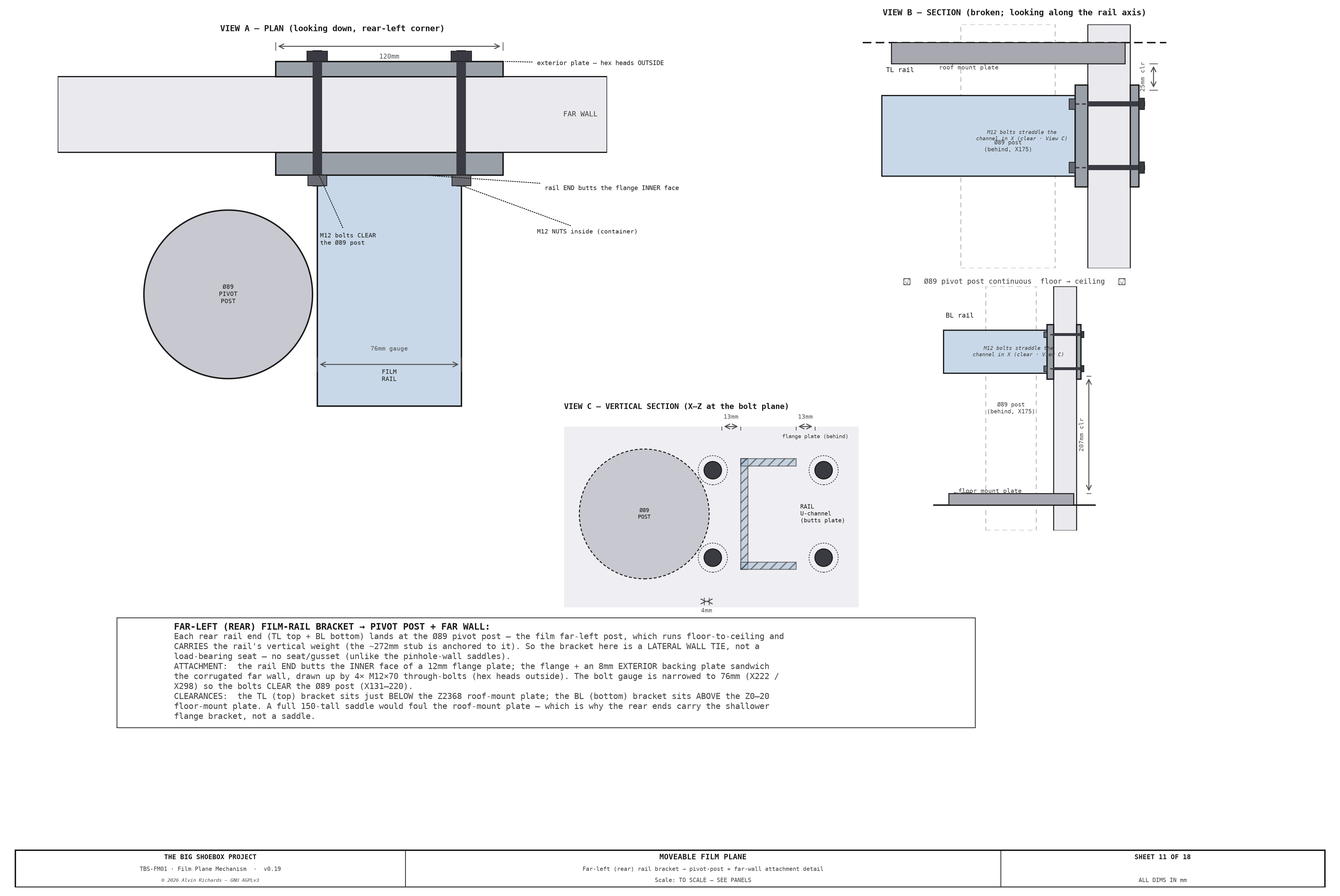
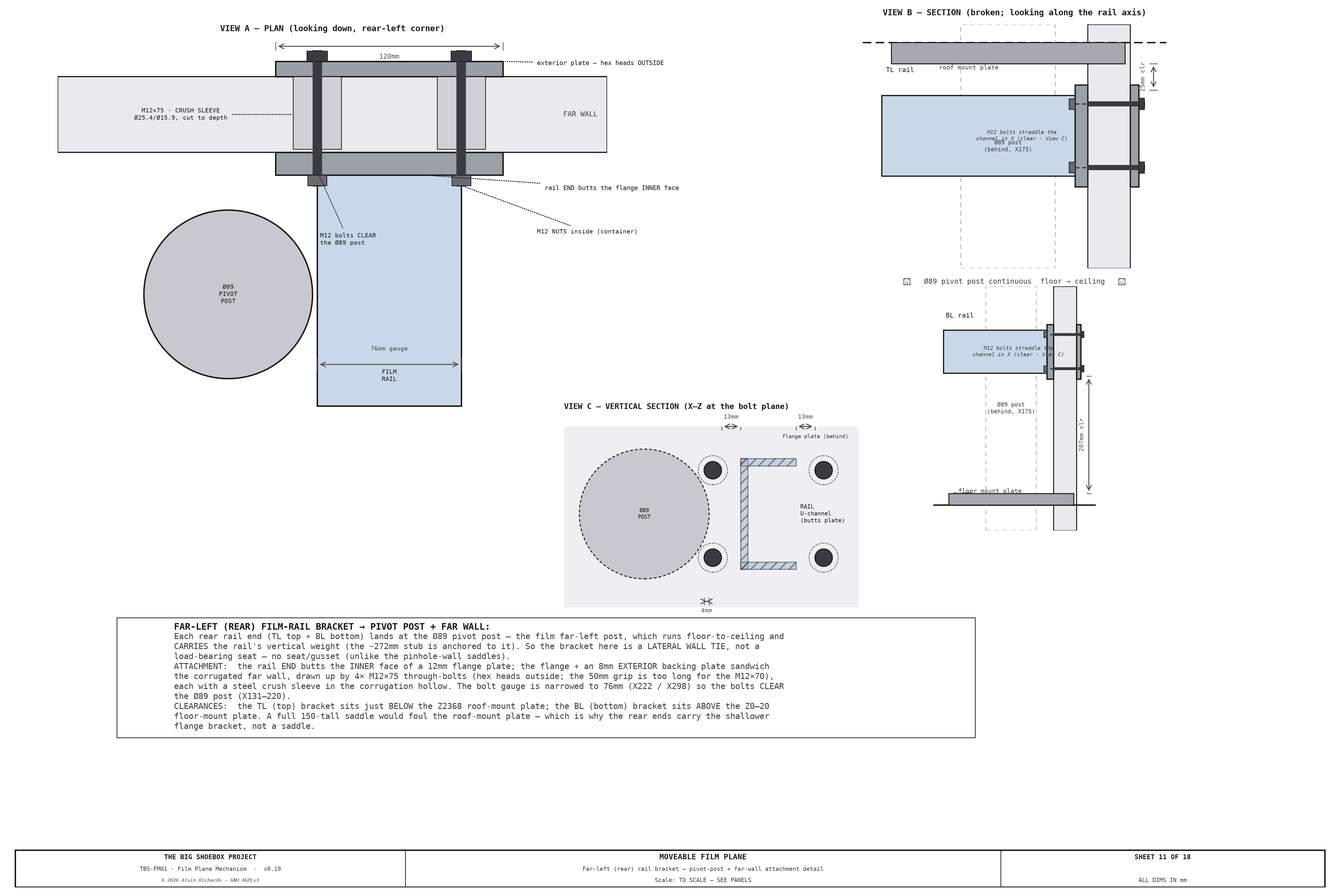
Film plane: crush sleeves on all 24 wall through-bolts; far-left flange bolts M12×75 (50mm grip)

Changed region(s): [[0.1243, 0.7454, 0.5902, 0.8386], [0.3106, 0.0621, 0.3728, 0.1864], [0.2174, 0.0621, 0.2796, 0.1864]]

diff --git a/src/generators/costing.py b/src/generators/costing.py
@@ -336,7 +336,9 @@ FILM = [
     LineItem("Muslin clamp filler — HDPE L-channel strip", 30, 50, 70, "inert HDPE packer, ~8.7 m, firm at fab — lets the clamp bite a solid full-depth edge"),
     # 4.3 Wall-seat saddles (rev 11, ICP-11–14) — estimates, confirm at procurement
     point("Wall-seat saddles ×4 — 8mm + 10mm A36 plate, cut (weld by owner) (ICP-11)", 228, "2026-08-19: 6→4 saddles (2 far-LEFT ends land on the pivot-post floor/roof mount plates → no saddle; 2 BR ends are the walkway combined plates). 4 = BL-near + TL-near + TR-near + TR-far. Back-plates lengthened 200→243 for a full gusset weld. Split 8mm ($160) + 10mm ($68) plate lines to quote separately; both need a local fab quote (not online)"),
-    point("Saddle + far-left-bracket fasteners — M12×70 through-bolts (×28) + M8 thumbscrews (×6) + M8×25 hex bolts (×8)", 143, "ICP-12/13/14; M12×70 91280A732 + plain nut 90591A181 + 4 flat 91166A290 + split 91202A246 per bolt; M8×25 fixing 92314A711. 2026-09-07: → M12×70 (single zinc wall length, was ×65 91280A728). 2026-08-19: ×20→×28 (+8 = the 2 far-left flange brackets, 4 bolts each). 6→4 saddles: M8 thumbscrews ×12→×6 (only the 2 left saddles are thumb-screw drop-in; the 2 TR saddles + 2 far-left brackets are permanent-bolt). 2026-11-09: M8 fixing (bolt-m8-fixing, ×8) merged onto the SS cross-slide SKU 92314A711 — retired the duplicate steel 91310A535 (−$1)."),
+    point("Saddle + far-left-bracket fasteners — M12×70 (×20) + M12×75 (×8) through-bolts + M8 thumbscrews (×6) + M8×25 hex bolts (×8)", 143, "ICP-12/13/14; M12×70 91280A732 + plain nut 90591A181 + 4 flat 91166A290 + split 91202A246 per bolt; M8×25 fixing 92314A711. 2026-09-07: → M12×70 (single zinc wall length, was ×65 91280A728). 2026-08-19: ×20→×28 (+8 = the 2 far-left flange brackets, 4 bolts each). 6→4 saddles: M8 thumbscrews ×12→×6 (only the 2 left saddles are thumb-screw drop-in; the 2 TR saddles + 2 far-left brackets are permanent-bolt). 2026-11-09: M8 fixing (bolt-m8-fixing, ×8) merged onto the SS cross-slide SKU 92314A711 — retired the duplicate steel 91310A535 (−$1)."),
+    LineItem("Film wall-bolt crush sleeves, 1in OD × 0.188in DOM tube (3 ft → 24 sleeves)", 30, 44, 59, "2026-11-22: one per saddle/far-left-flange wall bolt, cut to the measured corrugation hollow; registry film-wall-sleeve"),
+    LineItem("M12×75 far-left flange bolts (×8) — premium over the M12×70 rate, SKU pending", 0, 3, 6, "2026-11-22: the 50mm flange grip is too long for M12×70; registry bolt-m12x75 high $2.50 ea est"),
 ]
 
 
@@ -1207,7 +1209,7 @@ EXPECTED = { # the figures the docs are reconciled to (this session)
     "rich": {"chem": 2735, "total": 3040, "per_print": 61}, # 2026-10-22: 9.19 m² derived. Artcraft bulk — AmFe $64.20/kg + ferricyanide $51.01/kg
     # 2026-10-22: chem tiers rescaled to the 9.19 m2 (99 sqft) active plane (now derived from IMAGE_AREA_M2) -> grand total -$20/$30/$60.
     # 2026-10-27: +$12/$16/$20 — beam-penetration EPDM foam light-seals (ll-beam-notch-seal, 4 notches).
-    "grand_total": (27557, 32170, 45278), # 2026-11-22: +$100/$149/$198 — wall-bolt crush sleeves (walkway + IBC hangers). 2026-11-21c: −$100 blackout poly + tape removed. 2026-11-21b: −$113 film-plane edge seal removed. 2026-11-21: drum-exit GRP grating dropped. 2026-11-20d: walkway angle firm + plywood brackets from it. 2026-11-20c: +$20/$30/$40 — drain-pump switches S-05/S-03. 2026-11-20b:
+    "grand_total": (27587, 32217, 45343), # 2026-11-22b: +$30/$47/$65 — film crush sleeves + M12×75. 2026-11-22: +$100/$149/$198 — wall-bolt crush sleeves (walkway + IBC hangers). 2026-11-21c: −$100 blackout poly + tape removed. 2026-11-21b: −$113 film-plane edge seal removed. 2026-11-21: drum-exit GRP grating dropped. 2026-11-20d: walkway angle firm + plywood brackets from it. 2026-11-20c: +$20/$30/$40 — drain-pump switches S-05/S-03. 2026-11-20b:
     # +$18/$32/$45 — X-port camlock dust caps. 2026-11-20: −$210/−$490/+$5,700 — §9 Licenses & permits computed from its lines (permits; CDL in
     # High only, baseline is commercial hire), was a fixed $220/$790/$1,620. 2026-11-19c: −$8/$14/$20 — IBC-2 float switch dropped. 2026-11-19b:
     # +$19 — flex-jumper SS clamps 2→3 10-packs. 2026-11-19: +$9 — flex jumpers on both ends of the Blue equalization tie (barbs 8→10).
@@ -1306,7 +1308,7 @@ EXPECTED = { # the figures the docs are reconciled to (this session)
     # latch in. 2026-07-27: piano hinge firm Würth LSN8-32-600 weld-on $23.56 (was $22.68–35.72). Earlier: Swaner UV-White work surface $73.28.
     "interior": (446, 505, 563), # 2026-07-27: door pull handle firm McMaster 3570N12 $39.10 (was $5–9 lot, +$34/+$30). Earlier: BEHR Jet Black paint firm.
     "optics": (35, 52, 70), # 2026-09-23: retired the standard Ø600 pinhole/lens plate (superseded by the Ø80-carrier disc holder). §3 Optics is now the pinhole-WALL interface only (wall-frame adapter + dark slide); the pinhole element + retaining ring + mount bolts moved to front-board (fixes the pinhole double-count).
-    "film": (3877, 4103, 4335), # 2026-11-21: −$213 — blackout poly + Gorilla tape also removed (no use); −$113 — film-plane EPDM edge strip + Duvetyne curtains removed (no light path to seal). 2026-11-09: −$8 — M8×25 fastener standardization: SS SKU 92314A711 pack 25→50 (per-each halves, −$7) + the ×8 right-rail fixing merged onto
+    "film": (3907, 4150, 4400), # 2026-11-22: +$30/$47/$65 — film wall-bolt crush sleeves + 8× M12×75 flange bolts. 2026-11-21: −$213 — blackout poly + Gorilla tape also removed (no use); −$113 — film-plane EPDM edge strip + Duvetyne curtains removed (no light path to seal). 2026-11-09: −$8 — M8×25 fastener standardization: SS SKU 92314A711 pack 25→50 (per-each halves, −$7) + the ×8 right-rail fixing merged onto
     # it (retired dup steel 91310A535, −$1). 2026-09-07: +$4 — wall-sandwich bolts ×65→×70 (single zinc wall length). 2026-09-06: −$1 — M8 J1/J2
     # bolt firmed M8×20→M8×25 (92314A711, cheaper pack). 2026-09-06: +$2 — M8 J1/J2 → through-bolt + nut (32 M8 nuts added). 2026-09-06: +$11 — M4
     # nut/M8 bolt/M8 flat washer SKUs firmed (up from est). 2026-09-06: +$40 — corner mechanism fasteners itemized (M4 cam-clamp ×24 + M8 J1/J2

diff --git a/src/generators/generate_film_plane_mechanism.py b/src/generators/generate_film_plane_mechanism.py
@@ -73,6 +73,7 @@ L = C_LEN   # interior length (film plane spans this direction)
 W = C_WID   # interior width = optical axis = focal length
 H = C_HGT   # interior height
 from tbs_constants import WALL_T
+from tbs_constants import CONTAINER_WALL_SHEET_T, WALL_SLEEVE_OD, WALL_SLEEVE_ID
 from tbs_constants import DIAGRAM_DPI, FONT, BG, C_STEEL
 
 # Carriage travel limits (100mm clearance each end)
@@ -1985,10 +1986,13 @@ def sheet11():
     axA.add_patch(Rectangle((cx - bw / 2, C_WID - fl_t), bw, fl_t, fc=C_PL, ec=OUT, lw=1.2, zorder=4))       # flange (interior)
     axA.add_patch(Rectangle((cx - bw / 2, C_WID + WALL_T), bw, ext_t, fc=C_PL, ec=OUT, lw=1.2, zorder=4))    # exterior plate
     for bx in (cx - 38, cx + 38):
+        axA.add_patch(Rectangle((bx - WALL_SLEEVE_OD / 2, C_WID + CONTAINER_WALL_SHEET_T), WALL_SLEEVE_OD, WALL_T - CONTAINER_WALL_SHEET_T,
+                                fc="#D0D0D8", ec=OUT, lw=0.6, zorder=4.5))                                                        # crush sleeve
         axA.add_patch(Rectangle((bx - 2.5, C_WID - fl_t - 6), 5, WALL_T + fl_t + ext_t + 12, fc=C_BOLT, ec="none", zorder=5))  # shank
         axA.add_patch(Rectangle((bx - 5.5, C_WID + WALL_T + ext_t), 11, 5.5, fc=C_BOLT, ec=OUT, lw=0.5, zorder=6))            # HEX HEAD — OUTSIDE
         axA.add_patch(Rectangle((bx - 5, C_WID - fl_t - 5.5), 10, 5.5, fc="#6A6A72", ec=OUT, lw=0.6, zorder=6))               # NUT — INSIDE
     leader(axA, cx + 38, C_WID - fl_t - 5.5, cx + 78, C_WID - fl_t - 30, "M12 NUTS inside (container)", ha="left", fs=5.0, color=OUT, font=FONT)
+    leader(axA, cx - 38 - WALL_SLEEVE_OD / 2, C_WID + WALL_T / 2, 150, C_WID + WALL_T / 2, f"M12×75 · CRUSH SLEEVE\nØ{WALL_SLEEVE_OD}/Ø{WALL_SLEEVE_ID}, cut to depth", ha="center", fs=5.0, color=OUT, font=FONT)
     draw_dim_h(axA, cx - bw / 2, cx + bw / 2, C_WID + fl_t + 44, f"{bw}mm", offset=7, fs=5.5, font=FONT, above=False)
     draw_dim_h(axA, cx - 38, cx + 38, 2250, f"{FP_RAIL_WEB}mm gauge", fs=5, font=FONT)
     leader(axA, cx + 18, C_WID - fl_t, cx + 82, C_WID - fl_t - 7, "rail END butts the flange INNER face", ha="left", fs=5.2, color=OUT, font=FONT)
@@ -2067,7 +2071,8 @@ def sheet11():
         "floor-to-ceiling and CARRIES the rail's vertical weight (the ~272mm stub is anchored to it). So the bracket "
         "here is a LATERAL WALL TIE, not a load-bearing seat — no seat/gusset (unlike the pinhole-wall saddles).",
         "ATTACHMENT:  the rail END butts the INNER face of a 12mm flange plate; the flange + an 8mm EXTERIOR backing "
-        "plate sandwich the corrugated far wall, drawn up by 4× M12×70 through-bolts (hex heads outside). The bolt "
+        "plate sandwich the corrugated far wall, drawn up by 4× M12×75 through-bolts (hex heads outside; the 50mm grip "
+        "is too long for the M12×70), each with a steel crush sleeve in the corrugation hollow. The bolt "
         "gauge is narrowed to 76mm (X222 / X298) so the bolts CLEAR the Ø89 post (X131–220).",
         "CLEARANCES:  the TL (top) bracket sits just BELOW the Z2368 roof-mount plate; the BL (bottom) bracket sits "
         "ABOVE the Z0–20 floor-mount plate. A full 150-tall saddle would foul the roof-mount plate — which is why "
@@ -2129,7 +2134,8 @@ def sheet12():
         ("M8", "J1 carriage → Z-slide", "4", "304", "Sheet 14/15"),
         ("3/8 key + set screw", "U-joint stub → bore", "2+1", "304", "Sheet 9"),
         ("M6 (4040N12)", "U-joint input → X-slide", "2", "304", "Sheet 9"),
-        ("M12", "wall-seat saddle → wall", "4/seat", "galv", "Sheet 18"),
+        ("M12×70 + sleeve", "wall-seat saddle → wall", "4/seat", "8.8 zinc", "Sheet 18"),
+        ("M12×75 + sleeve", "far-left flange → wall", "4/brkt", "8.8 zinc", "Sheet 11"),
     ]
     ry = hdr_y - 8
     for fastener, joint, qty, grade, ref in rows:
@@ -2620,6 +2626,8 @@ def sheet18():
     # M12 through-bolts drawn per convention: HEX HEAD outside (right), NUT inside the container (left),
     # shank gripping back-plate + corrugated wall + exterior spreader plate
     def _wall_bolt(bz):
+        axA.add_patch(Rectangle((CONTAINER_WALL_SHEET_T, bz - WALL_SLEEVE_OD / 2), WALL_T - CONTAINER_WALL_SHEET_T, WALL_SLEEVE_OD,
+                                fc="#D0D0D8", ec=OUT, lw=0.6, zorder=5))                                  # crush sleeve in the corrugation hollow
         axA.add_patch(Rectangle((-bt, bz - 2), WALL_T + 8 + bt, 4, fc=C_BOLT, ec="none", zorder=6))   # shank (grip)
         axA.add_patch(Rectangle((-bt - 7, bz - 4), 7, 8, fc="#6A6A72", ec=OUT, lw=0.6, zorder=7))      # NUT — inside (container)
         axA.add_patch(Rectangle((WALL_T + 8, bz - 4.5), 6, 9, fc=C_BOLT, ec=OUT, lw=0.6, zorder=7))    # HEX HEAD — outside
@@ -2631,6 +2639,7 @@ def sheet18():
     leader(axA, -bt / 2, gh, -proj - 30, gh - 10, f"gusset (8mm) braces\nseat → back-plate", ha="left", fs=5.6, color=OUT, font=FONT, bbox=LBL_BG)
     leader(axA, -bt - 6, bz_hi, -proj - 30, bz_hi - 4, f"M{FP_CORNER_SEAT_BOLT_D}×{FP_CORNER_SEAT_BOLT_N} — NUT inside (container);\nboth rows clear BELOW the seat", ha="left", fs=5.6, color=C_BOLT, font=FONT, bbox=LBL_BG)
     leader(axA, WALL_T + 11, bz_lo, 30, bz_lo - 18, "HEX HEAD outside, on the\nexterior spreader plate", ha="left", fs=5.6, color=C_BOLT, font=FONT, bbox=LBL_BG)
+    leader(axA, WALL_T / 2, bz_hi + WALL_SLEEVE_OD / 2, 30, bz_hi + 46, f"M12×70 · CRUSH SLEEVE Ø{WALL_SLEEVE_OD}/Ø{WALL_SLEEVE_ID}\nin the corrugation hollow, cut to\nthe measured depth", ha="left", fs=5.6, color=C_BOLT, font=FONT, bbox=LBL_BG)
     axA.text(-proj - 68, bph + 50, "A — SADDLE ELEVATION  (load-bearing seat; wall at right)", fontsize=7.4, fontweight="bold", color=OUT, ha="left", **FONT)
 
     # ── View B — flat-pattern cut pieces (nesting) ─────────────────────────────

diff --git a/src/generators/parts.py b/src/generators/parts.py
@@ -865,9 +865,16 @@ PARTS: list[Part] = [
          dims="610×170×10mm (24×7in)",
          spec="10mm A36 mild-steel plate, 610×170mm (24×7in) — nests the 4 saddle seats (150×110). Cut to size; weld by owner ($0 labor). QUOTE NEEDED — local metal/fab shop, not online. $68 placeholder (scaled from the 6-saddle $102 line at 4/6) pending quote."),
     Part("bolt-m12x70", "M12×70 hex through-bolt, Grade 8.8 zinc, partial-thread", "fasteners-hardware",
-         "film", 28, "ea", 17.36 / 10, 17.36 / 10, "McMaster-Carr", part_no="91280A732",
+         "film", 20, "ea", 17.36 / 10, 17.36 / 10, "McMaster-Carr", part_no="91280A732",
          url="https://www.mcmaster.com/91280A732/",
-         spec="ICP-12: wall-sandwich through-bolt (4/saddle ×4 + 4/far-left flange bracket ×2 + 4 spare = 28), sized for the ~50mm 30mm-corrugation grip → M12×70, the single standardized zinc wall length (2026-09-07; padded to the grip with washers). $17.36/pack of 10 → 3 packs for 28. Pad with M12 flat washers to the grip."),
+         spec="ICP-12: wall-seat saddle through-bolt (4/saddle ×4 + 4 spare = 20). Grip 8mm back-plate + 30mm corrugation + 8mm exterior plate = 46mm → M12×70 with a flat washer each end, split-lock and nut, ~5.7mm protruding. $17.36/pack of 10 → 2 packs."),
+    Part("bolt-m12x75", "M12×75 hex through-bolt, Grade 8.8 zinc, partial-thread", "fasteners-hardware",
+         "film", 8, "ea", 17.36 / 10, 2.50, "McMaster-Carr",
+         spec="Far-left flange bracket → far wall (4/bracket ×2). Grip 12mm flange + 30mm corrugation + 8mm exterior plate = 50mm, too long for the M12×70 (only ~1.7mm past the nut) → M12×75: ~6.7mm protruding with a flat washer each end, split-lock and nut. Spec: M12×1.75 coarse, 75mm, ISO 4014 partial thread (30mm thread), Class 8.8, zinc-plated, hex head 18mm A/F — same family as 91280A732. SKU pending — owner to source; low = the M12×70 pack rate, high = $2.50 ea est."),
+    Part("film-wall-sleeve", "Wall-bolt crush sleeve stock — 1in OD × 0.188in wall DOM steel tube", "fasteners-hardware",
+         "film", 3, "ft", 10.0, 19.65, "OnlineMetals (via Zoro)",
+         url="https://zoro.com/onlinemetals-1-od-x-0188-wall-x-063-id-carbon-steel-round-tube-a513-type-5-dom-7777/i/G507153909",
+         spec="A513 Type 5 DOM (1020/1026), 1in OD × 0.188in wall (Ø15.9mm bore clears M12). Cut into 24 sleeves, one on every film-plane wall through-bolt (16 saddle + 8 far-left flange), each cut to the MEASURED corrugation hollow (~28.4mm = 30mm depth − 1.6mm sheet) so the 90 N·m preload clamps plate-sleeve-sheet instead of collapsing the corrugation. 3 ft covers 24 × ~31mm incl. kerf. High = Zoro 12in-length price $19.65/ft (2026-11-22); low = full-stick rate est. SKU pending — confirm length/price at order."),
     Part("nut-m12-plain", "M12 hex nut, plain", "fasteners-hardware",
          "film", 28, "ea", 12.78 / 50, 12.78 / 50, "McMaster-Carr", part_no="90591A181", url="https://www.mcmaster.com/90591A181/", spec="Plain hex nut — M12×70 wall-sandwich bolts (+ split lock washer). $12.78/pack of 50. Pitch M12×1.75 coarse — confirmed vs 90591A181 PDF 2026-07-29."),
     Part("washer-m12-flat", "M12 flat washer, zinc", "fasteners-hardware",

diff --git a/docs/master-shopping-list.md b/docs/master-shopping-list.md
@@ -13,7 +13,7 @@ Items are grouped by build area. Source documents are cross-referenced in each s
 | 1. Container & delivery | $2,300 | $4,300 |
 | 2. Interior conversion (light-seal, paint, ventilation) | $446 | $563 |
 | 3. Pinhole optics plate | $35 | $70 |
-| 4. Film plane mechanism (4-corner U-channel + acetal skate + 304 cross-slide + U-joint, incl. wall-seat saddles) | $3,877 | $4,335 |
+| 4. Film plane mechanism (4-corner U-channel + acetal skate + 304 cross-slide + U-joint, incl. wall-seat saddles) | $3,907 | $4,400 |
 | 5. Print washing — water system (incl. IBC stacking frame) | $6,999 | $8,386 |
 | 6. Electrical — power, circuits, wiring | $3,449 | $3,555 |
 | 7. Housed revolving-door light lock (plastic-skin custom fabrication) | $3,156 | $4,175 |
@@ -25,7 +25,7 @@ Items are grouped by build area. Source documents are cross-referenced in each s
 | 9. Printmaking chemistry — cyanotype, 50 prints (Low = Lean, High = Rich tier) | $1,230 | $3,040 |
 | 10. Printmaking tools & consumables | $350 | $500 |
 | 11. Safety & PPE | $120 | $180 |
-| **TOTAL (base build + 50-print run)** | **~$27,717** | **~$36,638** |
+| **TOTAL (base build + 50-print run)** | **~$27,747** | **~$36,703** |
 <!-- END costing:master-summary -->
 
 *Optional additions: lens plate (+$400–$1,500), self-haul transport (+$30,000–$40,000).*
@@ -223,7 +223,8 @@ indicative low–high estimates — get quotes before ordering.
 | [M8×1.25 × 25 hex bolt, 304 SS (A2-70) — cross-slide joints J1/J2 + right-rail fixing](https://www.mcmaster.com/92314A711/) (92314A711) | 32 ea | McMaster-Carr | film | $7 |
 | [M12×100 hex through-bolt, Grade 8.8 zinc](https://www.mcmaster.com/91280A770/) (91280A770) | 4 ea | McMaster-Carr | ibc-frame | $15 |
 | [M12×65 hex bolt, 18-8 SS (partial thread)](https://www.mcmaster.com/92800A481/) (92800A481) | 16 ea | McMaster-Carr | ibc-frame | $32 |
-| [M12×70 hex through-bolt, Grade 8.8 zinc, partial-thread](https://www.mcmaster.com/91280A732/) (91280A732) | 117 ea | McMaster-Carr | film, ibc-frame, walkway | $203 |
+| [M12×70 hex through-bolt, Grade 8.8 zinc, partial-thread](https://www.mcmaster.com/91280A732/) (91280A732) | 109 ea | McMaster-Carr | film, ibc-frame, walkway | $189 |
+| M12×75 hex through-bolt, Grade 8.8 zinc, partial-thread | 8 ea | McMaster-Carr | film | $14–$20 |
 | [M6 flat washer, SS](https://www.mcmaster.com/91455a120/) (91455A120) | 8 ea | McMaster-Carr | electrical | $0 |
 | [M8 flat washer, 304 SS](https://www.mcmaster.com/98689A673/) (98689A673) | 32 ea | McMaster-Carr | film | $9 |
 | [M8 flat washer, SS](https://www.mcmaster.com/98689A673/) (98689A673) | 4 ea | McMaster-Carr | shelf | $1 |
@@ -243,6 +244,7 @@ indicative low–high estimates — get quotes before ordering.
 | [Door pull handle + misc mounting hardware](https://www.mcmaster.com/3570N12/) (3570N12) | 1 ea | McMaster-Carr | interior | $39 |
 | Personnel-door hinges (heavy-duty, ×3) | 3 ea | Home Depot | interior | $15–$24 |
 | Weatherproof door latch/lock set | 1 ea | Home Depot | interior | $20–$45 |
+| [Wall-bolt crush sleeve stock — 1in OD × 0.188in wall DOM steel tube](https://zoro.com/onlinemetals-1-od-x-0188-wall-x-063-id-carbon-steel-round-tube-a513-type-5-dom-7777/i/G507153909) | 3 ft | OnlineMetals (via Zoro) | film | $30–$59 |
 | [Machine screws — filter housings to ply tee-nuts (1/4-20)](https://www.mcmaster.com/90272A552/) (90272A552) | 8 ea | McMaster-Carr | water | $1 |
 | [1/4" flat washer — filter-housing machine screws](https://www.mcmaster.com/90850A100/) (90850A100) | 8 ea | McMaster-Carr | water | $1 |
 | [Stainless self-drilling (TEK) screw — ACM → 6061 frame](https://www.mcmaster.com/90599A716/) (90599A716) | 30 ea | McMaster-Carr | film | $19 |
@@ -303,7 +305,7 @@ indicative low–high estimates — get quotes before ordering.
 | Grating clips | 30 ea | McNichols | walkway | $30–$50 |
 | [M12×30 hex bolt, Gr.8.8 zinc (leg foot → sub-plate tapped boss)](https://www.mcmaster.com/91280A716/) (91280A716) | 20 ea | McMaster-Carr | walkway | $17 |
 | [Wall-bolt crush sleeve stock — 1in OD × 0.188in wall DOM steel tube](https://zoro.com/onlinemetals-1-od-x-0188-wall-x-063-id-carbon-steel-round-tube-a513-type-5-dom-7777/i/G507153909) | 8 ft | OnlineMetals (via Zoro) | walkway | $80–$157 |
-| **fasteners-hardware subtotal** | | | | **$2,192–$2,556** |
+| **fasteners-hardware subtotal** | | | | **$2,222–$2,621** |
 
 ### optics
 
@@ -505,7 +507,7 @@ indicative low–high estimates — get quotes before ordering.
 | containermgt.com | 1 | container | $2,000–$3,500 |
 | Metal Supermarkets | 23 | aluminum, ducting-ventilation, steel-structural | $2,310–$3,107 |
 | Amazon | 31 | adhesives-finishes, aluminum, bearings-motion, ducting-ventilation, electrical-distribution, electrical-power, fabric-textile, fasteners-hardware, plumbing-fittings, tools-safety, water-equipment | $2,013–$2,033 |
-| McMaster-Carr | 84 | adhesives-finishes, aluminum, bearings-motion, fasteners-hardware, seals-gaskets, steel-structural | $1,940–$1,948 |
+| McMaster-Carr | 85 | adhesives-finishes, aluminum, bearings-motion, fasteners-hardware, seals-gaskets, steel-structural | $1,940–$1,954 |
 | Online Metals | 6 | aluminum, stainless-sheet, steel-structural | $1,229–$1,939 |
 | Home Depot | 54 | adhesives-finishes, ducting-ventilation, electrical-distribution, fasteners-hardware, plumbing-fittings, steel-structural, timber-ply, tools-safety | $1,642–$1,821 |
 | Grainger | 10 | aluminum, bearings-motion, electrical-distribution, fasteners-hardware, plumbing-fittings, seals-gaskets, steel-structural | $1,682 |
@@ -525,11 +527,11 @@ indicative low–high estimates — get quotes before ordering.
 | Fabric Direct | 1 | substrate-fabric | $300 |
 | igus | 1 | bearings-motion | $261 |
 | MetalsDepot | 2 | steel-structural | $190–$258 |
+| OnlineMetals (via Zoro) | 3 | fasteners-hardware | $130–$255 |
 | Metals Depot | 2 | aluminum, steel-structural | $252 |
 | americandoorsupply | 1 | electrical-distribution | $244 |
 | Bearings Direct | 2 | bearings-motion | $201 |
 | Waytek Wire | 9 | electrical-distribution, electrical-power | $197 |
-| OnlineMetals (via Zoro) | 2 | fasteners-hardware | $100–$196 |
 | LED Profiles | 1 | electrical-distribution | $189 |
 | Amazon (bundle) | 1 | seals-gaskets | $157–$178 |
 | Harbor Freight | 2 | fasteners-hardware | $118–$176 |

diff --git a/docs/project-cost-breakdown.md b/docs/project-cost-breakdown.md
@@ -16,7 +16,7 @@
 | **1. Container purchase & delivery** | $2,300 | $3,300 | $4,300 |
 | **2. Interior conversion** | $446 | $505 | $563 |
 | **3. Optics — pinhole wall interface** | $35 | $52 | $70 |
-| **4. Film plane mechanism (4-corner U-channel + acetal skate + U-joint, incl. wall-seat saddles)** | $3,877 | $4,103 | $4,335 |
+| **4. Film plane mechanism (4-corner U-channel + acetal skate + U-joint, incl. wall-seat saddles)** | $3,907 | $4,150 | $4,400 |
 | **5. Processing water system (incl. tray, spray bar, IBC stacking frame)** | $6,999 | $7,691 | $8,386 |
 | **5a. Power & electrical system (solar · 1× LiFePO4 · MPPT · distribution · lighting · protection · master pump switch + drain-pump switches)** | $3,449 | $3,502 | $3,555 |
 | **5b. Ventilation & cooling system (2 fans · evap cooler **+ 12V→120V inverter** · light-safe baffle-duct fab · shade canopy)** | $788 | $848 | $938 |
@@ -28,7 +28,7 @@
 | **7. Printmaking — 50 prints (cyanotype; Low=Lean, Mid=Standard, High=Rich tier)** | $1,230 | $1,680 | $3,040 |
 | **8. Transportation (per deployment)** | $300 | $750 | $2,000 |
 | **9. Licenses & permits (per-deployment permits; High adds CDL)** | $10 | $300 | $7,320 |
-| **TOTAL (excl. own transport, lens)** | **$27,557** | **$32,170** | **$45,278** |
+| **TOTAL (excl. own transport, lens)** | **$27,587** | **$32,217** | **$45,343** |
 <!-- END costing:scenario -->
 
 *Line 7 (cyanotype printmaking) brackets the **Mike Ware New Cyanotype** concentration tiers — **Low = Lean ⅓-Ware, Mid = Standard ½-Ware, High = Rich full-Ware** — including the ~<!-- BEGIN costing:pcb-muslin-run -->$300<!-- END costing:pcb-muslin-run --> muslin substrate (§7.1). The [Sensitizer Trials](sensitizer-trials.md) pin the tier.*
@@ -149,7 +149,7 @@ Line items (Option A, manual handwheel actuation) — **generated from `costing.
 | Muslin clamp filler — HDPE L-channel strip | $115 | $144 | $173 |
 | Wall-seat saddles ×6 — 8mm steel plate, cut + welded (ICP-11) | $30 | $50 | $70 |
 | Saddle fasteners — M12×70 through-bolts (×28) + M8 thumbscrews (×12) + M8×25 hex bolts (×8) | $228 | $228 | $228 |
-| **Section total — film plane mechanism (U-channel + U-joint, incl. saddles)** | **$3,877** | **$4,103** | **$4,335** |
+| **Section total — film plane mechanism (U-channel + U-joint, incl. saddles)** | **$3,907** | **$4,150** | **$4,400** |
 <!-- END costing:film -->
 
 
@@ -472,7 +472,7 @@ Permit requirements vary by jurisdiction. Estimates below are based on general k
 | Container (WWT) + delivery | $1,800 |
 | Interior conversion (minimal) | $446 |
 | Pinhole plate | $35 |
-| Film plane mechanism (4-corner U-channel + U-joint, incl. wall-seat saddles) | $3,877 |
+| Film plane mechanism (4-corner U-channel + U-joint, incl. wall-seat saddles) | $3,907 |
 | Water system (incl. processing tray, spray bar, IBC stacking frame) | $6,999 |
 | Power & electrical system (solar · 1× LiFePO4 · distribution · lighting · protection · master pump switch) | $3,449 |
 | Ventilation & cooling system (2 fans · evap cooler + inverter · light-safe baffle-duct fab · shade canopy) | $788 |
@@ -484,7 +484,7 @@ Permit requirements vary by jurisdiction. Estimates below are based on general k
 | Cyanotype chemistry + substrate (50 prints) | $1,230 |
 | Transport per deployment (local) | $400 |
 | Permits (minimal) | $50 |
-| **Scenario A total** | **~$27,197** |
+| **Scenario A total** | **~$27,227** |
 <!-- END costing:scenario-a -->
 
 ### Scenario B — Recommended build, regional deployment
@@ -495,7 +495,7 @@ Permit requirements vary by jurisdiction. Estimates below are based on general k
 | Container (CW) + delivery | $3,150 |
 | Interior conversion (full) | $505 |
 | Pinhole plate | $52 |
-| Film plane mechanism (4-corner U-channel + U-joint + wall-seat saddles) | $4,103 |
+| Film plane mechanism (4-corner U-channel + U-joint + wall-seat saddles) | $4,150 |
 | Water system (incl. processing tray, spray bar, IBC stacking frame) | $7,691 |
 | Power & electrical system (solar · 1× LiFePO4 · distribution · lighting · protection · master pump switch) | $3,502 |
 | Ventilation & cooling system (2 fans · evap cooler + inverter · light-safe baffle-duct fab · shade canopy) | $848 |
@@ -508,7 +508,7 @@ Permit requirements vary by jurisdiction. Estimates below are based on general k
 | Rodenstock Apo-Ronar 1,200mm lens | $800 |
 | Transport per deployment (50–100 miles) | $900 |
 | Permits (typical public land) | $300 |
-| **Scenario B total (excl. CDL)** | **~$32,970** |
+| **Scenario B total (excl. CDL)** | **~$33,017** |
 <!-- END costing:scenario-b -->
 
 ### Scenario C — Full production, own transport, CDL
@@ -516,11 +516,11 @@ Permit requirements vary by jurisdiction. Estimates below are based on general k
 <!-- BEGIN costing:scenario-c -->
 | Item | Cost |
 |------|------|
-| Scenario B build (less the $900 commercial transport, replaced here by owned transport) | $32,070 |
+| Scenario B build (less the $900 commercial transport, replaced here by owned transport) | $32,117 |
 | CDL Class A training + medical + DMV | $6,570 |
 | QuickLoadz self-loading trailer | $35,000 |
 | Ford F-350+ pickup (if needed) | $50,000–$80,000 (new) |
-| **Scenario C total** | **~$123,640–$153,640** |
+| **Scenario C total** | **~$123,687–$153,687** |
 <!-- END costing:scenario-c -->
 
 *Own transport only makes sense if the camera will be deployed frequently. For fewer than 60 moves, commercial hire is cheaper.*

diff --git a/docs/film-plane-mechanism-report.md b/docs/film-plane-mechanism-report.md
@@ -114,7 +114,7 @@ The cross-slide travel and load follow from the rotation geometry and the moving
 
 ![Sheet 10 — Corner load case: cross-slide travel + bending safety factor](assets/film-plane-sheet10.png)
 
-- **Rear-corner attachment** — the two far-left (rear) rail ends land at the Ø89 pivot post, which carries their weight (the stub is anchored to it). Each is tied to the far wall by a **flange + exterior backing plate + 4× M12** — the rail END butts the flange's inner face — with the bolt gauge narrowed so the bolts clear the post, and the bracket kept below the roof-mount plate (a full saddle would foul it). No seat/gusset: it's a lateral tie, not a load-bearing seat.
+- **Rear-corner attachment** — the two far-left (rear) rail ends land at the Ø89 pivot post, which carries their weight (the stub is anchored to it). Each is tied to the far wall by a **flange + exterior backing plate + 4× M12×75** (the 50mm grip is too long for the M12×70 used elsewhere) — the rail END butts the flange's inner face — with the bolt gauge narrowed so the bolts clear the post, and the bracket kept below the roof-mount plate (a full saddle would foul it). No seat/gusset: it's a lateral tie, not a load-bearing seat.
 
 ![Sheet 11 — Far-left (rear) rail bracket → pivot-post + far-wall attachment](assets/film-plane-sheet11.png)
 
@@ -206,7 +206,7 @@ See the **[Master Shopping List, filtered to the film-plane system](master-shopp
 
 ### 7.1 Wall-Seat Saddles
 
-Each of the **8 rail ends** anchors to the container — **4 of them** with a standalone **IBC-style wall-seat saddle** (a back-plate + horizontal seat the rail end rests on + triangular gusset, dims reused from the IBC frame wall seats, **through-bolted with a 4-bolt pattern to an exterior wall plate**), and **the 2 bottom-right ends (BR, near + far)** with a **combined corner plate shared with the right walkway** (see below), and **the 2 far-left ends** on the pivot post (the rear-corner attachment, §4.4). The container shell carries the lateral rigidity, so no cross-cage is needed. The saddles cost ~110mm of carriage travel at each end, which the design does not need. The rails run the full width **saddle-to-saddle** (Yd 0 → C_WID).
+Each of the **8 rail ends** anchors to the container — **4 of them** with a standalone **IBC-style wall-seat saddle** (a back-plate + horizontal seat the rail end rests on + triangular gusset, dims reused from the IBC frame wall seats, **through-bolted with a 4-bolt pattern to an exterior wall plate**), and **the 2 bottom-right ends (BR, near + far)** with a **combined corner plate shared with the right walkway** (see below), and **the 2 far-left ends** on the pivot post (the rear-corner attachment, §4.4). The container shell carries the lateral rigidity, so no cross-cage is needed. The wall is one 1.6mm corrugated sheet, so every wall through-bolt (M12×70 on the saddles, M12×75 on the far-left flanges) carries a steel **crush sleeve** (1in OD × 0.188in wall) that fills the corrugation hollow behind the exterior plate; without it the bolt preload would collapse the corrugation. Each sleeve is cut to the hollow measured on the purchased container (the shared detail and check are in [Walkway §3.1](walkway-report.md#31-cantilever-bracket-design)). The saddles cost ~110mm of carriage travel at each end, which the design does not need. The rails run the full width **saddle-to-saddle** (Yd 0 → C_WID).
 
 **Right vs left.** The **right** rails (TR + BR) are **permanently bolted** into place. Each **left** rail (TL + BL) is split near the pivot post: a fixed **stub** (about 272mm) stays anchored at the pivot post and far wall, and the **removable section** (about 2,090mm) drops into its near-wall saddle on **knurled thumb screws** and onto the stub through a welded bridge and locating pin (Sheet 4). The removal section is to allow the hinge panel to swing for transportation.
 
@@ -222,7 +222,7 @@ The muslin is cut to the **washable tray area** (<!-- BEGIN fact:muslin_cut_widt
 
 See [Muslin Clamp System — Mechanism Design](film-clamp-mechanism-report.md) for the full clamp specification, parts list, and engineering drawing.
 
-**Estimated materials total (incl. wall-seat saddles): ~<!-- BEGIN costing:film-total -->$3,877<!-- END costing:film-total -->**
+**Estimated materials total (incl. wall-seat saddles): ~<!-- BEGIN costing:film-total -->$3,907<!-- END costing:film-total -->**
 *Excludes fasteners and fabrication labor.*
 
 ### 7.3 Local SoCal Metal Sourcing

diff --git a/docs/cost-analysis-report.md b/docs/cost-analysis-report.md
@@ -11,7 +11,7 @@ capital from recurring/consumable spend, and ranks the realistic savings levers.
 
 All figures are the **mid-column** estimates from the
 [Cost Breakdown](project-cost-breakdown.md) (the itemized source of truth); the build
-mid-total is **~<!-- BEGIN costing:ca-mid-total -->$32,170<!-- END costing:ca-mid-total -->**.
+mid-total is **~<!-- BEGIN costing:ca-mid-total -->$32,217<!-- END costing:ca-mid-total -->**.
 
 ---
 
@@ -24,13 +24,13 @@ recurs or is consumed — savings strategy is different for each.
 <!-- BEGIN costing:ca-buckets -->
 | Bucket | Mid | What it is |
 |---|--:|---|
-| **Capital build** (one-time hardware) | **$29,440** | The systems you build once — this is where build-savings live |
+| **Capital build** (one-time hardware) | **$29,487** | The systems you build once — this is where build-savings live |
 | Consumable (per 50-print batch) | $1,680 | Cyanotype chemistry + substrate (Standard ½-Ware) — recurs every batch |
 | Recurring (per deployment) | $750 | Commercial-hire transport |
 | Soft / regulatory | $300 | Licenses & permits |
 <!-- END costing:ca-buckets -->
 
-Build-savings work on the **<!-- BEGIN costing:ca-capital -->$29,440<!-- END costing:ca-capital --> capital**. The <!-- BEGIN costing:ca-consumable -->$1,680<!-- END costing:ca-consumable --> consumable is attacked
+Build-savings work on the **<!-- BEGIN costing:ca-capital -->$29,487<!-- END costing:ca-capital --> capital**. The <!-- BEGIN costing:ca-consumable -->$1,680<!-- END costing:ca-consumable --> consumable is attacked
 separately (bulk chemistry, cheaper substrate) because it repeats every batch and
 quickly dominates lifetime cost.
 
@@ -44,7 +44,7 @@ Capital systems ranked by mid cost:
 | System | Mid | % of capital | Notes |
 |---|--:|--:|---|
 | **Processing water system** | $7,691 | 26% | Tray (304 SS) + IBC frame dominate |
-| **Film-plane mechanism** | $4,103 | 14% | Carriages, Option-A 304 cross-slides, muslin spring clips, wall-seat saddles |
+| **Film-plane mechanism** | $4,150 | 14% | Carriages, Option-A 304 cross-slides, muslin spring clips, wall-seat saddles |
 | **Light lock** | $3,667 | 12% | Plastic-skin custom fabrication |
 | **Power & electrical** | $3,502 | 12% | Battery + solar + distribution + protection |
 | **Container + delivery** | $3,300 | 11% | Grade-dependent (CW vs WWT) |
@@ -74,7 +74,7 @@ Ranked by dollar potential and ease. Status is updated as levers are actioned.
 | 4 | **Solar 3 → 2 panels** (if the power budget allows) | Power | ~<!-- BEGIN costing:ca-lever-solar -->$133<!-- END costing:ca-lever-solar --> | Easy | Available — computed (drop 1× 200W panel) |
 | 5 | **Valves / fittings value-engineering** | Water | ~<!-- BEGIN costing:ca-lever-valves-low -->$100<!-- END costing:ca-lever-valves-low -->–<!-- BEGIN costing:ca-lever-valves-high -->$200<!-- END costing:ca-lever-valves-high --> | Medium | Available |
 
-After the material decisions, the only still-**available** build-savings levers are **1 (container grade) + 4 (solar)** — together **~<!-- BEGIN costing:ca-savings-low -->$1,500<!-- END costing:ca-savings-low -->** off the <!-- BEGIN costing:ca-capital -->$29,440<!-- END costing:ca-capital --> capital build (**~<!-- BEGIN costing:ca-savings-pct-low -->5<!-- END costing:ca-savings-pct-low -->%**), plus ~$100–200 of valve value-engineering (#5). Everything else is settled: lever 2 **kept 304 SS** (decision), lever 3 **already 1×100 Ah**.
+After the material decisions, the only still-**available** build-savings levers are **1 (container grade) + 4 (solar)** — together **~<!-- BEGIN costing:ca-savings-low -->$1,500<!-- END costing:ca-savings-low -->** off the <!-- BEGIN costing:ca-capital -->$29,487<!-- END costing:ca-capital --> capital build (**~<!-- BEGIN costing:ca-savings-pct-low -->5<!-- END costing:ca-savings-pct-low -->%**), plus ~$100–200 of valve value-engineering (#5). Everything else is settled: lever 2 **kept 304 SS** (decision), lever 3 **already 1×100 Ah**.
 
 > **Derivation note.** Lever 1 (container grade), lever 5 (solar), and the roll-up total +
 > percentage are computed in `costing.py` — container is a true CW − WWT subtraction off the

diff --git a/docs/TODO.md b/docs/TODO.md
@@ -448,7 +448,7 @@ walkway, hinged panel, light lock, electrical, optics, …)._
 **► Blueprint-readiness audit — ALL systems reviewed 2026-10-10 (7-way parallel).** Result: **6 of 7 subsystems are manufacturing-ready blueprints; water/tray/spray is the one genuine gap.**
 - ✅ **Film-plane** (template) — fab Sheets 13–18 fab-grade, datum/tol scheme Sheet 9, fastener schedule Sheet 12. Polish: sparse explicit hole-Ø drill callouts; rail/saddle (13/18) outside the Sheet-9 tol block.
 - ✅ **IBC frame + plate schedule** — cut list, datums/tol, weld map+schedule, 1:1 plate details, fully-dimensioned cantilever arm. Stacking set = GA (correct). J1 mark on Sheet 1. **DONE 2026-10-12:** floor anchoring adopted the **sub-plate (strongback) standard** — feet/legs bolt to a shared steel plate self-tapped into the cross-members (container cross-members aren't standardized; ISO 1496-1). J1→J1a/J1b (IBC) + WF4→WF4a/WF4b (walkway) across §3.4a/§5.1a + parts/costing + blueprint-specs + the new `floor-anchor-map` 2-sheet diagram; cost cascaded.
-- [ ] **Wall corrugation — measure on the ACQUIRED container.** Rib pitch (457mm nominal; not in ISO 668 or a US standard), corrugation depth (30mm assumed — sets every wall-bolt grip) and the outer trough opening (the 100/120mm walkway reinforcing plates must bridge it). Cut every wall-bolt crush sleeve (walkway WF6 + IBC hangers) to the measured hollow. Re-station the near/far walkway brackets and re-check the M12×70 length in walkway_load.py if they differ.
+- [ ] **Wall corrugation — measure on the ACQUIRED container.** Rib pitch (457mm nominal; not in ISO 668 or a US standard), corrugation depth (30mm assumed — sets every wall-bolt grip) and the outer trough opening (the 100/120mm walkway reinforcing plates must bridge it). Cut every wall-bolt crush sleeve (walkway WF6 + IBC hangers + film-plane saddles/flanges) to the measured hollow. Re-station the near/far walkway brackets and re-check the M12×70 length in walkway_load.py if they differ.
 - [ ] **Floor-anchor sub-plates — finalize on the ACQUIRED container.** Plate dimensions, members spanned, and TEK count are container-dependent (§3.4a / §5.1a): on receipt, survey the cross-member stations + door-end sill + any forklift pockets, then cut each plate and drill its on-site TEK clearance holes to the surveyed steel. (IBC ~650×450×8; walkway ~1900×350×8 continuous — both representative.)
 - ✅ **3D models — floor-anchor sub-plate + shortened post (`FLOOR_PLATE_T`).** DONE 2026-10-12: `cp.frame()` + `walkway_model` carry the sub-plate (under the IBC feet + the continuous walkway sill→tray plate), feet/legs raised onto it, posts cut shorter by the plate thickness (frame top fixed), J6 backing-plate follows the raised ring. All **6 models re-sent → saved → pushed to Sketchfab → committed** (overview, walkway, ibc-stack, water, film-plane-mechanism, construction); `manifest.py --check` = all 11 current; `check_interference` = 0. (Residual `check_consistency` "FLOOR_PLATE_T only in 2D" on the ibc-frame pairing is the pre-existing shared-`cp.frame()`-module heuristic artifact, same as `IBC_FOOT_PLATE_T`/`IBC_FRAME_RHS`.)
 - ✅ **Winged-TEK SKU URL backfill — DONE 2026-10-12.** `ibcf-floor-tek` + `walkway-floor-tek` (`F14C325FDC`, #14×3¼″ winged self-driller) now carry the Fasteners Plus product URL; parts-identity lint advisory cleared.

diff --git a/docs/funding-proposal.md b/docs/funding-proposal.md
@@ -86,7 +86,7 @@ The container moves by commercial hire tilt-bed truck. No CDL is required for th
 ## 6. Budget and Use of Funds
 All figures are drawn from the [full cost breakdown](project-cost-breakdown.md). Per-item procurement details with supplier URLs are in the [master shopping list](master-shopping-list.md). Three funding levels are presented to allow partial or phased support.
 
-### Level 1 — Core Build (~<!-- BEGIN costing:fund-l1-total -->$34,589<!-- END costing:fund-l1-total -->, Standard scenario)
+### Level 1 — Core Build (~<!-- BEGIN costing:fund-l1-total -->$34,646<!-- END costing:fund-l1-total -->, Standard scenario)
 Everything required to operate the camera for a first deployment. Figures are the Standard (Mid) column of the [cost breakdown](project-cost-breakdown.md); Low–High scenarios span ~<!-- BEGIN costing:fund-scenario-span -->$28,000–$45,000<!-- END costing:fund-scenario-span -->.
 
 <!-- BEGIN costing:funding-level1 -->
@@ -95,7 +95,7 @@ Everything required to operate the camera for a first deployment. Figures are th
 | 20ft container (Cargo Worthy grade) + delivery | $3,300 |
 | Interior conversion (light-seal, paint, ventilation, door) | $505 |
 | Pinhole plate (precision laser-drilled, SS-302, interchangeable frame) | $52 |
-| Film plane mechanism (4-corner U-channel + acetal skate + Belden U-joint) | $4,103 |
+| Film plane mechanism (4-corner U-channel + acetal skate + Belden U-joint) | $4,150 |
 | Pinhole disc holder (front board) | $329 |
 | Housed revolving-door light trap (plastic-skin Ø800 housing + C-shell drum, bearings, seals, fabrication) | $3,667 |
 | Processing water system (tray, spray bar, 3-stage filtration, IBC stacking frame) | $7,691 |
@@ -106,8 +106,8 @@ Everything required to operate the camera for a first deployment. Figures are th
 | Hinged panel structure (stepped frame + HDPE skins + Al core + EPDM + latches + B2 bay + handle) | $1,282 |
 | Chemistry prep shelf (fold-down UV-white ply board + hinge/stays + tap trunk extension) | $275 |
 | Cyanotype chemistry + muslin substrate (50-print run, Standard tier) | $1,680 |
-| Contingency (10%) | ~$3,140 |
-| **Level 1 total** | **~$34,589** |
+| Contingency (10%) | ~$3,150 |
+| **Level 1 total** | **~$34,646** |
 <!-- END costing:funding-level1 -->
 
 ### Level 2 — First Deployment (+$1,025–2,750)
@@ -130,7 +130,7 @@ Video documentation, process photography, and initial publication:
 | Publication design (zine or catalog, print run) | $500–1,500 |
 | **Level 3 total** | **~$2,000–5,000** |
 
-**Combined (Levels 1+2+3):** ~<!-- BEGIN costing:fund-combined -->$37,614–42,339<!-- END costing:fund-combined --> for a complete first-year program with three public deployments, 50-print edition, and full documentation.
+**Combined (Levels 1+2+3):** ~<!-- BEGIN costing:fund-combined -->$37,671–42,396<!-- END costing:fund-combined --> for a complete first-year program with three public deployments, 50-print edition, and full documentation.
 
 ## 7. Timeline
 A 12-month build and deployment program:

diff --git a/RELEASE.md b/RELEASE.md
@@ -28,6 +28,7 @@ is no separate publish step to run afterward.
 
 - **Walkway report: what/why pass.** The access lists now match the equipment layout. Corrected against the constants and parts: the right walkway's 245mm width and its grating clips on the frame beams; the widened-zone X range (1,165–3,193); the cooler size (it fits the deck, no overhang); grating open area ~70%; the post position; and the spray-bar clearance. The duplicate left-walkway tables are merged and the redesign history removed.
 - **Walkway soffit clearance computed over the whole sloped tray.** A new check in the walkway validation table (§9) sweeps the 1:200 tray profile. The Z89.6 arm/beam underside clears the tray rim by at least 8.6mm and the spray beam by at least 11.5mm, both at the far (high) rim. This replaces the hand-typed 15/22/25mm figures in the report and on Sheets 4–5. The foot-plate holes in the plate schedule are corrected to Ø13 for the M12 bolts.
+- **Film-plane wall bolts get crush sleeves; far-left flanges move to M12×75.** All 24 film-plane wall through-bolts (16 on the wall-seat saddles, 8 on the far-left flange brackets) now carry the same 1in × 0.188in DOM sleeve, from 3 ft of tube. The flange grip (12mm flange + 30mm corrugation + 8mm plate = 50mm) left the M12×70 only ~1.7mm past the nut, so those 8 bolts are M12×75 (SKU pending). Sheets 11, 12 and 18 and the report are updated (+$30/$47/$65).
 - **Crush sleeves on every corrugated-wall through-bolt (walkway WF1–WF3 + IBC wall hangers).** The wall is one 1.6mm sheet, so each bolt crosses a ~28mm hollow behind the exterior plate. A 1in OD × 0.188in wall DOM steel sleeve now fills it, cut to the measured depth, so the 90 N·m preload can't collapse the corrugation. The walkway check replaces the washer pull-through row with the real load path: plate welds to the crests (SF 68) and the sleeve under preload (SF 2.05; sheet bearing SF 2.83). Shown on walkway Sheets 2/7 (now drawn as one sheet) and IBC-frame Sheet 4 Detail A. Parts: 8 ft + 2 ft of tube (+$100/$149/$198 total).
 - **Walkway wall bolts re-checked through a single corrugated sheet.** The bolt stack listed two wall layers. It now reads: 6mm exterior plate, ~30mm corrugation, the 1.6mm sheet, then the 8/10mm leg. A new length check gives a 44/46mm grip, so the M12×70 fits with washers, split-lock and nut, protruding 6–8mm. Rib spacing (457mm) is now stated as nominal, to be measured on the purchased container. A width note compares the 300mm deck with US guidance (18in OSHA maintenance access).
 - **IBC transport restraint re-checked on the US standard (FMCSA 49 CFR 393.102).** The load case uses the 0.8 g breaking-strength and 0.435 g working-load-limit criteria, credits no bare friction and credits the friction mats at the unrated 50% (393.108(g)). Front bars: SF 1.49 alone and 3.97 with the mats; straps are checked on the 393.106(d) half-weight rule. Load-case sheet, report §3.4/§4.4, parts and drawing notes updated.
